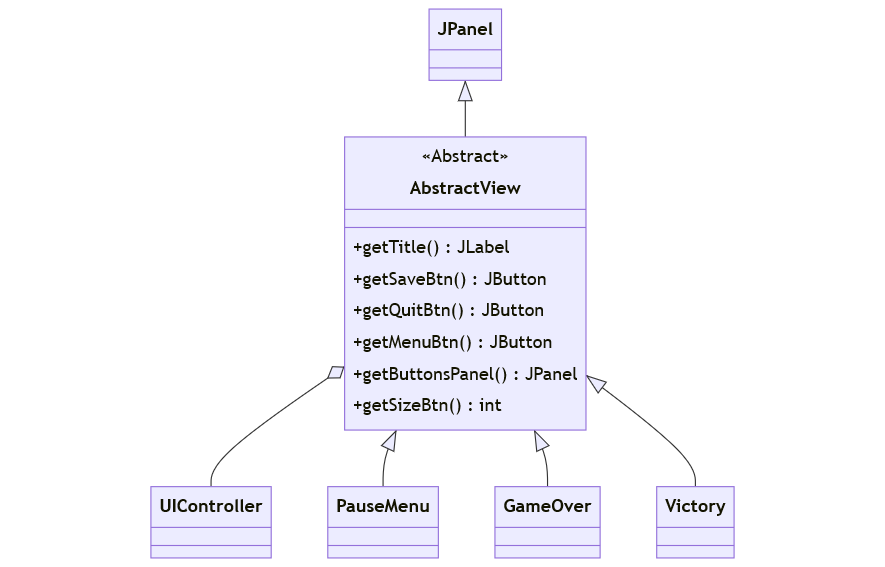
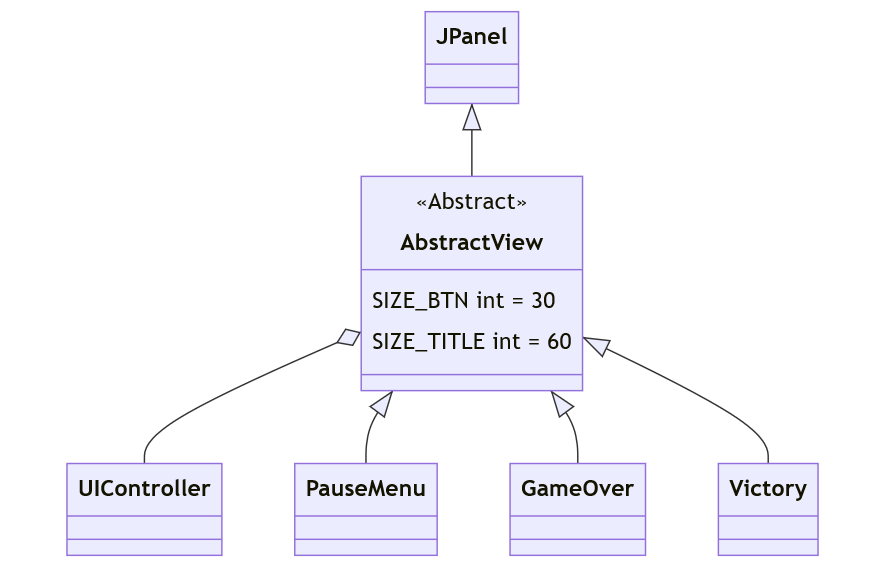
Updated uml of AbstractView

diff --git a/src/main/java/it/unibo/game/app/view/jswing/implementation/AbstractView.java b/src/main/java/it/unibo/game/app/view/jswing/implementation/AbstractView.java
@@ -24,8 +24,8 @@ public abstract class AbstractView extends JPanel {
   private JButton quitBtn;
   private JButton menuBtn;
   private JButton button;
-  private static final int sizeBtn = 30;
-  private static final int sizeTitle = 60;
+  private static final int SIZE_BTN = 30;
+  private static final int SIZE_TITLE = 60;
 
   /**
    * Constructor of the class.
@@ -40,8 +40,8 @@ public abstract class AbstractView extends JPanel {
     this.titleLabel.setText(title);
     this.button = button;
     this.button.addActionListener(actionListener);
-    this.menuBtn = new CustomBtn(sizeBtn, "Start Menu");
-    this.quitBtn = new CustomBtn(sizeBtn, "Quit");
+    this.menuBtn = new CustomBtn(SIZE_BTN, "Start Menu");
+    this.quitBtn = new CustomBtn(SIZE_BTN, "Quit");
 
     JPanel titlePanel = new JPanel();
     buttonsPanel = new JPanel();
@@ -51,7 +51,7 @@ public abstract class AbstractView extends JPanel {
     buttonsPanel.add(this.button);
     buttonsPanel.add(this.menuBtn);
     buttonsPanel.add(this.quitBtn);
-    titleLabel.setFont(new Font("Serif", Font.BOLD, sizeTitle));
+    titleLabel.setFont(new Font("Serif", Font.BOLD, SIZE_TITLE));
     titleLabel.setForeground(Color.WHITE);
 
     titlePanel.add(titleLabel);
